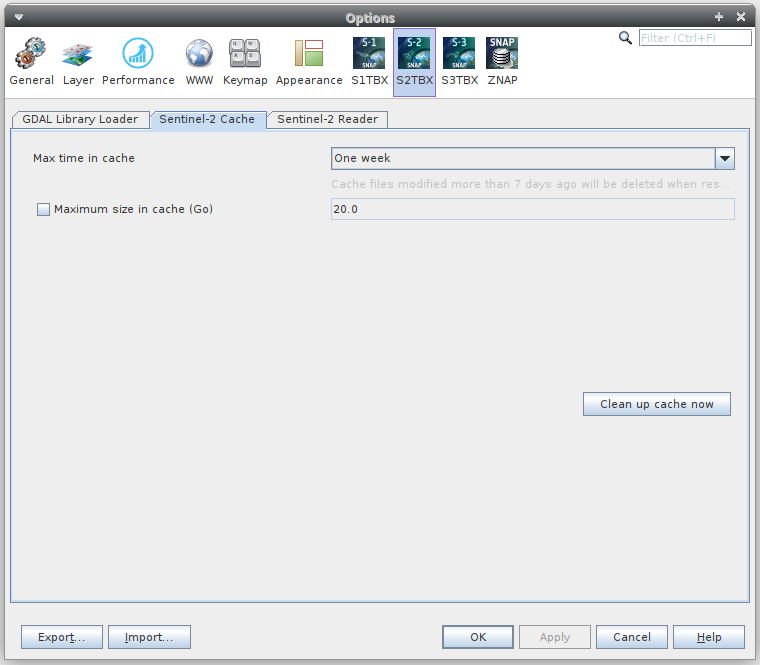
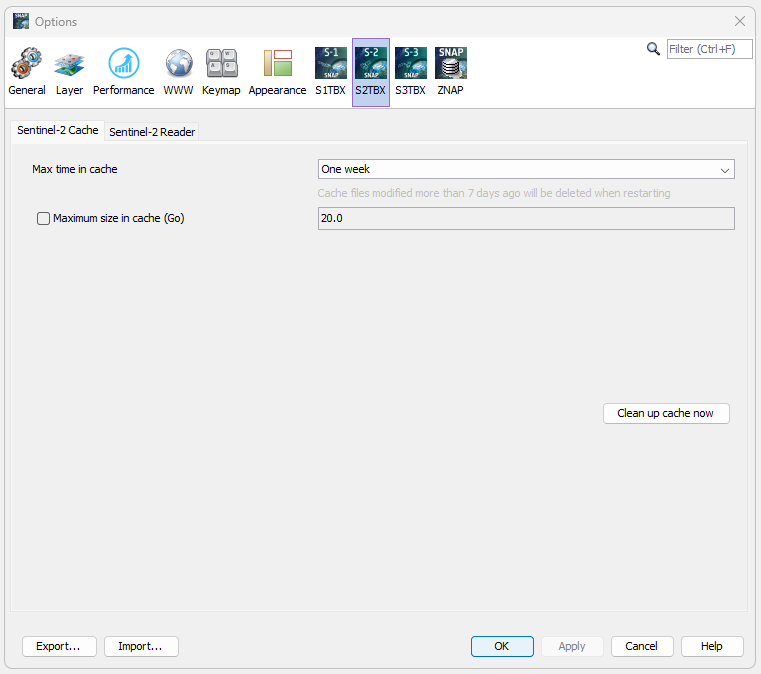
Help update - move “GDAL Library Loader” from S2 Toolbox  Options to General Options

Changed region(s): [[0.0, 0.0, 1.0, 1.0]]

diff --git a/s2tbx-s2msi-reader-ui/src/main/resources/org/esa/s2tbx/dataio/s2/preferences/ui/msi/docs/s2tbx/S2TBXOptions.html b/s2tbx-s2msi-reader-ui/src/main/resources/org/esa/s2tbx/dataio/s2/preferences/ui/msi/docs/s2tbx/S2TBXOptions.html
@@ -34,33 +34,6 @@
     </tr>
 </table>
 
-<h4>GDAL Library Loader configuration</h4>
-
-<p>
-    It is possible to configure the GDAL library loader to load one of the installed GDAL distribution from the operating system or the internal GDAL distribution within SNAP (version 3.2.1).
-</p>
-
-<img src="../images/gdal_loader_config.png" border=0/>
-
-<p><br>The internal GDAL distribution is used when no GDAL distribution is installed on the operating system or when the installed version is not compatible.
-    If the first option is selected and a GDAL distribution is installed on the operating system, SNAP will not load it until the second option is selected.
-</p>
-
-
-<h5>Compatible versions</h5>
-
-<p><br/>
-    - Windows x86 (32 bit): from GDAL 2.1.X to GDAL 3.2.X
-    <br/>
-    - Windows x64 (64 bit): from GDAL 2.1.X to GDAL 3.2.X
-    <br/>
-    - Linux x64 (64 bit): from GDAL 2.0.X to GDAL 3.2.X
-    <br/>
-    - MacOSX (64 bit): from GDAL 2.0.X to GDAL 3.2.X
-    <br/>
-</p>
-
-
 <h4>Sentinel-2 Cache</h4>
 
 <p>

diff --git a/s2tbx-gdal-reader/src/main/resources/org/esa/s2tbx/dataio/gdal/reader/docs/gdal/GDALReader.html b/s2tbx-gdal-reader/src/main/resources/org/esa/s2tbx/dataio/gdal/reader/docs/gdal/GDALReader.html
@@ -73,7 +73,7 @@
        Vexcel MFF Raster products (*.hdr)
     </p>
 	<p>
-        The supported GDAL library versions are listed <a href="nbdocs://org.esa.s2tbx.s2tbx.s2msi.reader.ui/org/esa/s2tbx/dataio/s2/preferences/ui/msi/docs/s2tbx/S2TBXOptions.html">here</a>. If this library is already installed, then it is used; otherwise the application will use the internal distribution (3.2.1).
+        The supported GDAL library versions are listed <a href="nbdocs://org.esa.snap.snap.help/org/esa/snap/snap/help/docs/desktop/OptionsDialog.html#GDALLibraryLoaderConfig">here</a>. If this library is already installed, then it is used; otherwise the application will use the internal distribution (3.2.1).
 	   This functionality is available on machines with the Microsoft Windows, Linux and Mac OSX operating system.
     </p>
     <p>For more details please see: <a href="http://www.gdal.org/">GDAL - Geospatial Data Abstraction Library</a></p>

diff --git a/s2tbx-gdal-writer/src/main/resources/org/esa/s2tbx/dataio/gdal/writer/docs/gdal/GDALWriter.html b/s2tbx-gdal-writer/src/main/resources/org/esa/s2tbx/dataio/gdal/writer/docs/gdal/GDALWriter.html
@@ -126,7 +126,7 @@
     </table>
 
     <p>
-        The supported GDAL library versions are listed <a href="nbdocs://org.esa.s2tbx.s2tbx.s2msi.reader.ui/org/esa/s2tbx/dataio/s2/preferences/ui/msi/docs/s2tbx/S2TBXOptions.html">here</a>. If this library is already installed, then it is used; otherwise the application will use the internal distribution (3.2.1).
+        The supported GDAL library versions are listed <a href="nbdocs://org.esa.snap.snap.help/org/esa/snap/snap/help/docs/desktop/OptionsDialog.html#GDALLibraryLoaderConfig">here</a>. If this library is already installed, then it is used; otherwise the application will use the internal distribution (3.2.1).
         This functionality is available on machines with the Microsoft Windows, Linux and Mac OSX operating system.
     </p>	
     <p>For more details please see: <a href="http://www.gdal.org/">GDAL - Geospatial Data Abstraction Library</a></p>
